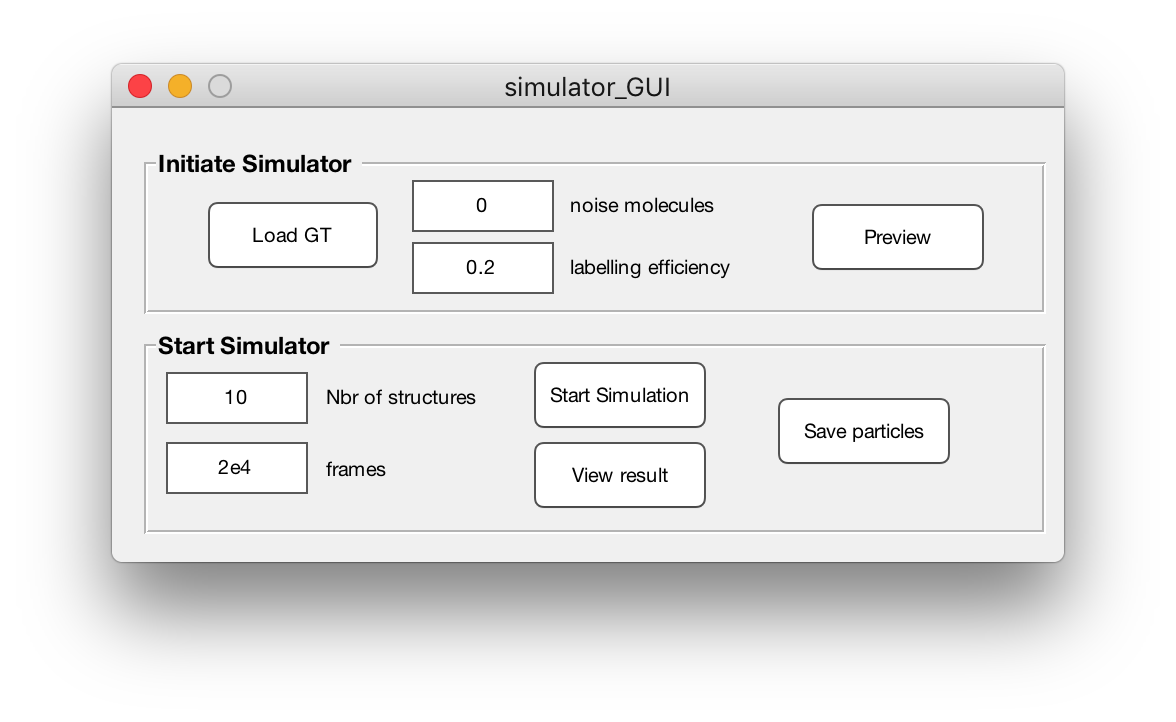
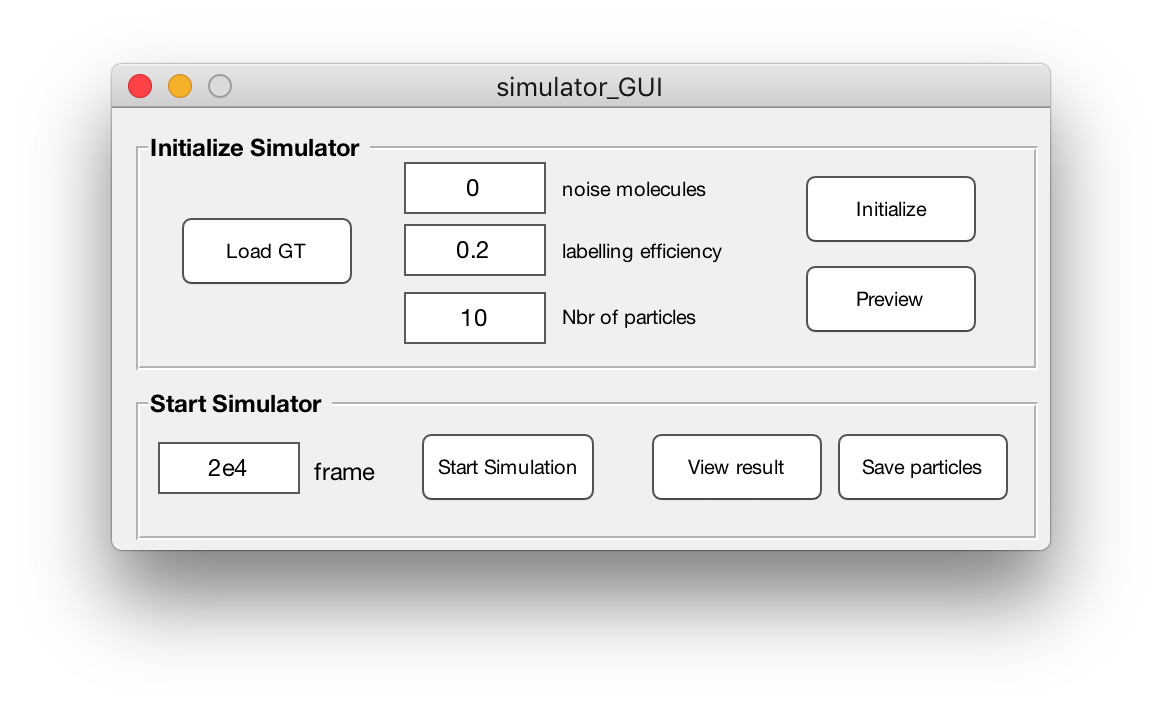
simulator revised

diff --git a/functions/initiateSimulator.m b/functions/initiateSimulator.m
@@ -18,42 +18,56 @@ maxNoise            = max(max(handles.GT(:,1:3)));
 minNoise            = -maxNoise; %min(min(handles.GT(:,1:3))); 
 
 
-rng('shuffle');
+a = [1, 0, 0, 0]; % initial vector
 
-a = -pi; b = pi;
-sim_cent = {};
+% Compute the random rotation axes in 3D. (u,v,w) is a unit vector pointing
+% in direction uniformly random in any direction.
 
-rand_ang(:,1) = (b-a).*rand(num_of_structures,1) + a;
-rand_ang(:,2) = (b-a).*rand(num_of_structures,1) + a;
-rand_ang(:,3) = (b-a).*rand(num_of_structures,1) + a;
+r1 = rand(num_of_structures, 1);
+r2 = rand(num_of_structures, 1);
 
-for i = 1:num_of_structures;
+phi = 2 * pi * r1;
+theta = acos(2 * r2 - 1);
 
-Rx = [1 0 0 0; ...
-     0 cos(rand_ang(i,1)) -sin(rand_ang(i,1)) 0; ...
-     0 sin(rand_ang(i,1)) cos(rand_ang(i,1)) 0; ...
-     0 0 0 1];
+u = sin(theta) .* cos(phi);
+v = sin(theta) .* sin(phi);
+w = cos(theta);
 
-tform = affine3d(Rx);
-ptCloudOutx = pctransform(ptCloud,tform);
- 
-Ry = [cos(rand_ang(i,2)) 0 sin(rand_ang(i,2)) 0; ...
-     0 1 0 0; ...
-     -sin(rand_ang(i,2)) 0 cos(rand_ang(i,2)) 0; ...
-     0 0 0 1];
- 
-tform = affine3d(Ry);
-ptCloudOuty = pctransform(ptCloudOutx,tform);
+% Uncomment this to verify that the points uniformly cover the unit sphere.
+% plot3(u, v, w, '.');
 
-Rz = [cos(rand_ang(i,3)) sin(rand_ang(i,3)) 0 0; ...
-     -sin(rand_ang(i,3)) cos(rand_ang(i,3)) 0 0; ...
-     0 0 1 0; ...
-     0 0 0 1];
+% figure;
 
-tform = affine3d(Rz);
-ptCloudOut_final = pctransform(ptCloudOuty,tform);
+for i = 1:num_of_structures
+    % Find the angle t between the initial vector and the random axis of
+    % rotation.
+    uu = u(i);
+    vv = v(i);
+    ww = w(i);
+    t = acos(dot(a, [uu, vv, ww, 0]) / norm(a));
 
- ptCloudOut_final = ptCloud;
+    % (l,m,n) is the axis of rotation.
+    ax_of_rot = cross(a(1:3), [uu, vv, ww]);
+    ax_of_rot = ax_of_rot / norm(ax_of_rot); % Makes ax_of_rot a unit vector
+    l = ax_of_rot(1); m = ax_of_rot(2); n = ax_of_rot(3);
+
+    % This rotation matrix assumes that (l,m,n) is normalized and that it
+    % passes through the origin.
+    %
+    % See section 5.2 at
+    % https://sites.google.com/site/glennmurray/Home/rotation-matrices-and-formulas/rotation-about-an-arbitrary-axis-in-3-dimensions.
+    
+    R = [l^2 + (1 - l^2) * cos(t), l * m * (1 - cos(t)) - n * sin(t), l * n * (1 - cos(t)) + m * sin(t), 0;
+         l * m * (1 - cos(t)) + n * sin(t), m^2 + (1 - m^2) * cos(t), m * n * (1 - cos(t)) - l * sin(t), 0;
+         l * n * (1 - cos(t)) - m * sin(t), m * n * (1 - cos(t)) + l * sin(t), n^2 + (1 - n^2) * cos(t), 0;
+         0, 0, 0, 1];
+
+%     aa = R * a';
+%     plot3(aa(1), aa(2), aa(3), '.');
+%     hold on;axis equal;
+
+tform = affine3d(R);
+ptCloudOut_final = pctransform(ptCloud,tform);
 
 % Substact the center of mass
 

diff --git a/spartan_gui/simulator_GUI.m b/spartan_gui/simulator_GUI.m
@@ -22,7 +22,7 @@ function varargout = simulator_GUI(varargin)
 
 % Edit the above text to modify the response to help simulator_GUI
 
-% Last Modified by GUIDE v2.5 20-Mar-2018 22:14:50
+% Last Modified by GUIDE v2.5 01-Jun-2018 20:47:15
 
 % Begin initialization code - DO NOT EDIT
 gui_Singleton = 1;
@@ -235,21 +235,23 @@ function preview_Callback(hObject, eventdata, handles)
 
 handles = guidata(hObject);
 
-[handles.simParticles, sim_Noise] = initiateSimulator(handles);
-
 ID = randi([1 handles.NbrStructures],1,1);
 
 figure('Position',[200 400 700 300])
 subplot(1,2,1)
 scatter3(handles.simParticles{ID, 1}(:,1),handles.simParticles{ID, 1}(:,2),handles.simParticles{ID, 1}(:,3));hold on;
-scatter3(sim_Noise{ID, 1}(:,1),sim_Noise{ID, 1}(:,2),sim_Noise{ID, 1}(:,3),'r*');hold on;
+scatter3(handles.sim_Noise{ID, 1}(:,1),handles.sim_Noise{ID, 1}(:,2),handles.sim_Noise{ID, 1}(:,3),'r*');hold on;
 view([60,40])
+title('3D view');
 axis equal
+box on
 
 subplot(1,2,2)
 scatter(handles.simParticles{ID, 1}(:,1),handles.simParticles{ID, 1}(:,2));hold on;
-scatter(sim_Noise{ID, 1}(:,1),sim_Noise{ID, 1}(:,2),'r*');
-axis([-300 300 -300 300]) 
+scatter(handles.sim_Noise{ID, 1}(:,1),handles.sim_Noise{ID, 1}(:,2),'r*');
+axis equal
+title('XY projection');
+box on
 
 guidata(hObject, handles); % Update handles structure
 
@@ -289,14 +291,38 @@ handles = guidata(hObject);
 
 ID = randi([1 handles.NbrStructures],1,1);
 
-figure
+figure('Position',[100 400 600 300])
 subplot(1,2,1)
 scatter3(handles.simParticles{ID, 1}(:,1),handles.simParticles{ID, 1}(:,2),handles.simParticles{ID, 1}(:,3));hold on;
-axis([-300 300 -300 300]);view([60,40]);axis equal
+view([60,40]);
+axis equal
+title('Molecule position (3D view)');
+axis equal
+box on
 
 subplot(1,2,2)
 scatter3(handles.simParticlesRes{ID, 1}(:,1),handles.simParticlesRes{ID, 1}(:,2),handles.simParticlesRes{ID, 1}(:,3),1);
-axis([-300 300 -300 300]);view([60,40]);
+view([60,40]);
 axis equal
+title('Simulated localizations (3D view)');
+
+guidata(hObject, handles); % Update handles structure
+
+
+% --- Executes on button press in init.
+function init_Callback(hObject, eventdata, handles)
+% hObject    handle to init (see GCBO)
+% eventdata  reserved - to be defined in a future version of MATLAB
+% handles    structure with handles and user data (see GUIDATA)
+
+handles = guidata(hObject);
+
+[handles.simParticles, handles.sim_Noise] = initiateSimulator(handles);
+
+    if isempty(handles.simParticles)==0;
+    
+    set(handles.init,'BackgroundColor','green');
+    
+    else end
 
 guidata(hObject, handles); % Update handles structure
